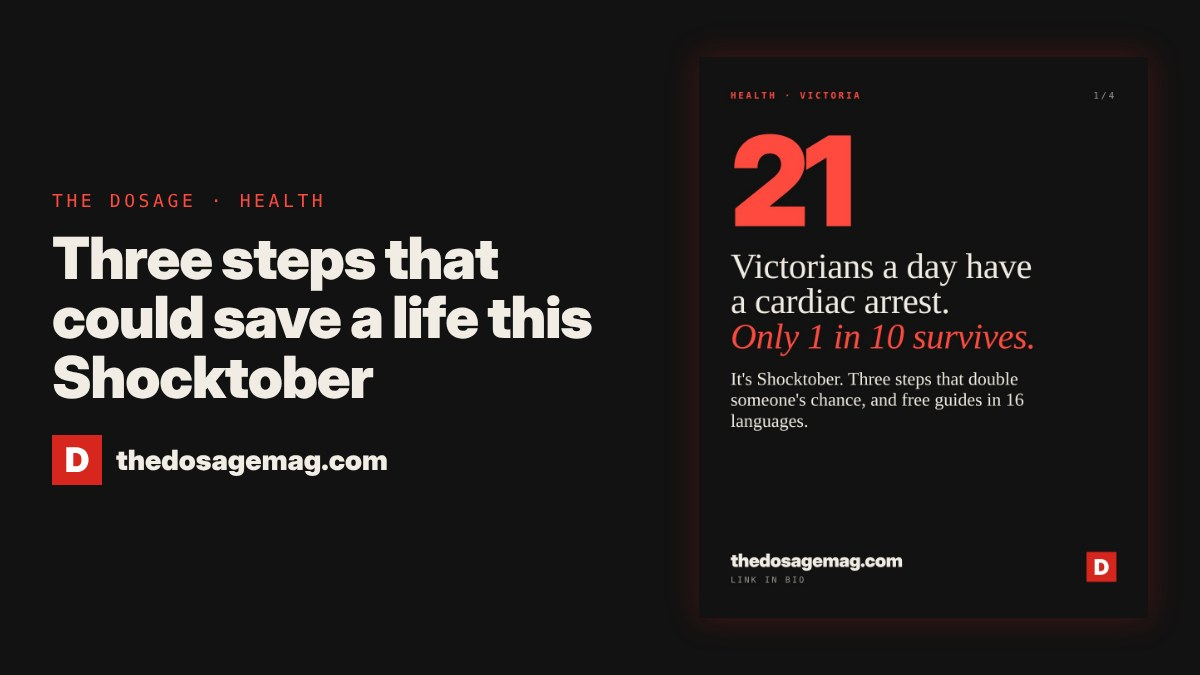
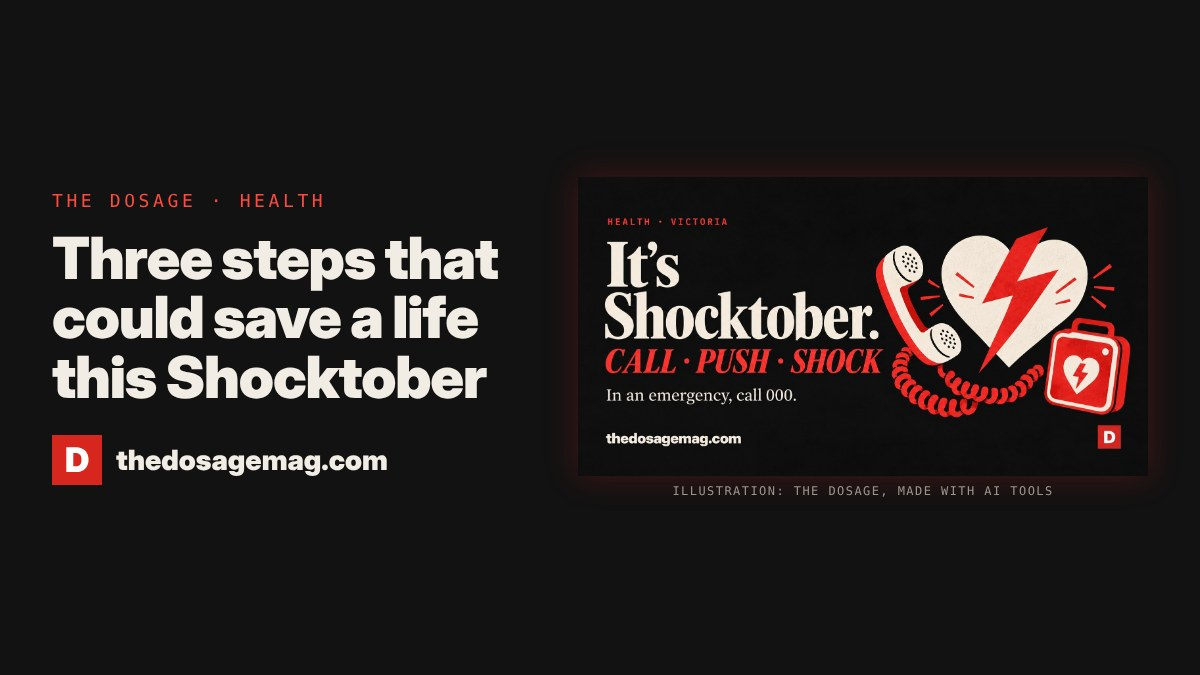
CPR story: Shocktober illustration and Call Push Shock graphic in the article; illustration cover slide for social (requested 21 Oct)
Claude-Session: https://claude.ai/code/session_01XEZDG2ftZS8qLCKJvVWftD

diff --git a/stories/cpr/index.html b/stories/cpr/index.html
@@ -17,14 +17,14 @@
 <meta name="robots" content="max-image-preview:large">
 <meta property="og:image:width" content="1200">
 <meta property="og:image:height" content="675">
-<meta property="og:image:alt" content="Three steps that could save a life this Shocktober">
-<meta name="twitter:image:alt" content="Three steps that could save a life this Shocktober">
+<meta property="og:image:alt" content="It’s Shocktober. Call, Push, Shock: a telephone, a heart with a lightning bolt and a defibrillator case. In an emergency, call 000.">
+<meta name="twitter:image:alt" content="It’s Shocktober. Call, Push, Shock: a telephone, a heart with a lightning bolt and a defibrillator case. In an emergency, call 000.">
 <meta property="article:section" content="Health">
 <meta property="article:tag" content="Health">
 <meta property="article:tag" content="Ambulance Victoria">
 <meta property="article:published_time" content="2026-10-21T07:00:00+11:00">
 <script>window.DOSAGE_PAGE="post-cpr";</script>
-<script type="application/ld+json">{"@context": "https://schema.org", "@type": "NewsArticle", "headline": "Three steps that could save a life this Shocktober", "description": "Around 21 Victorians have a cardiac arrest every day and only one in 10 survives. Ambulance Victoria’s free guides show you what to do, including in Tamil.", "mainEntityOfPage": "https://thedosagemag.com/stories/cpr/", "url": "https://thedosagemag.com/stories/cpr/", "image": ["https://thedosagemag.com/posts/img/share/cpr-16x9.jpg", "https://thedosagemag.com/posts/img/share/cpr-4x3.jpg", "https://thedosagemag.com/posts/img/share/cpr-1x1.jpg"], "author": {"@type": "Organization", "name": "The Dosage", "url": "https://thedosagemag.com/"}, "publisher": {"@type": "NewsMediaOrganization", "name": "The Dosage", "url": "https://thedosagemag.com/", "logo": {"@type": "ImageObject", "url": "https://thedosagemag.com/the-dosage-logo-square.png"}}, "datePublished": "2026-10-21T07:00:00+11:00", "articleSection": "Health", "keywords": ["Health", "Ambulance Victoria"], "inLanguage": "en-AU", "isAccessibleForFree": true}</script>
+<script type="application/ld+json">{"@context": "https://schema.org", "@type": "NewsArticle", "headline": "Three steps that could save a life this Shocktober", "description": "Around 21 Victorians have a cardiac arrest every day and only one in 10 survives. Ambulance Victoria’s free guides show you what to do, including in Tamil.", "mainEntityOfPage": "https://thedosagemag.com/stories/cpr/", "url": "https://thedosagemag.com/stories/cpr/", "image": ["https://thedosagemag.com/posts/img/share/cpr-16x9.jpg", "https://thedosagemag.com/posts/img/share/cpr-4x3.jpg", "https://thedosagemag.com/posts/img/share/cpr-1x1.jpg", "https://thedosagemag.com/posts/img/news/cpr/hero.jpg"], "author": {"@type": "Organization", "name": "The Dosage", "url": "https://thedosagemag.com/"}, "publisher": {"@type": "NewsMediaOrganization", "name": "The Dosage", "url": "https://thedosagemag.com/", "logo": {"@type": "ImageObject", "url": "https://thedosagemag.com/the-dosage-logo-square.png"}}, "datePublished": "2026-10-21T07:00:00+11:00", "articleSection": "Health", "keywords": ["Health", "Ambulance Victoria"], "inLanguage": "en-AU", "isAccessibleForFree": true}</script>
 <!-- Google tag (gtag.js) -->
 <script async src="https://www.googletagmanager.com/gtag/js?id=G-X15JYJ87TY"></script>
 <script>
@@ -576,6 +576,7 @@ footer a{color:inherit}
   <h1>Three steps that could save a life this Shocktober</h1>
   <p class="dek">Around 21 Victorians have a cardiac arrest every day and only one in 10 survives. Ambulance Victoria’s free guides show you what to do, including in Tamil.</p>
   <div class="byline"><span class="label red">Health · Victoria</span><span class="label">The Dosage</span><span class="label">21 October 2026</span></div>
+  <figure class="pic"><img src="posts/img/news/cpr/hero.jpg" alt="It’s Shocktober. Call, Push, Shock: a telephone, a heart with a lightning bolt and a defibrillator case. In an emergency, call 000." width="1733" height="908"><figcaption>Illustration: The Dosage, made with AI tools</figcaption></figure>
   <p>October is Shocktober, Ambulance Victoria’s month-long push to get more people to learn CPR and how to use a defibrillator (AED). The reason is simple: when someone’s heart stops, what bystanders do in the first few minutes decides whether they live.</p>
   <div class="numbers">
     <div><b>21</b><span>Victorians have a cardiac arrest every day</span></div>
@@ -589,6 +590,7 @@ footer a{color:inherit}
     <li><b>Push</b> on the centre of the chest, between the nipples. Push hard, to a steady rhythm.</li>
     <li><b>Shock</b>: if there’s a defibrillator nearby, turn it on and follow its instructions.</li>
   </ol>
+  <figure class="pic" style="max-width:460px;margin-inline:auto"><img src="posts/img/news/cpr/call-push-shock.jpg" alt="If someone collapses and isn’t breathing: 1, call 000, the call taker talks you through CPR. 2, push on the chest, between the nipples, hard and to a steady rhythm. 3, shock with a defibrillator, turn on the AED and follow its voice instructions." width="1080" height="1350" loading="lazy"><figcaption>Graphic: The Dosage</figcaption></figure>
   <p>You can find the nearest registered defibrillator on Ambulance Victoria’s <a href="https://www.ambulance.vic.gov.au/find-aed" target="_blank" rel="noopener">AED map</a>. If you know CPR, the free <a href="https://www.ambulance.vic.gov.au/goodsam" target="_blank" rel="noopener">GoodSAM app</a> can alert you when someone nearby has a cardiac arrest. Ambulance Victoria is running free CPR and AED sessions across the state this month; see its <a href="https://www.ambulance.vic.gov.au/shocktober-2026-community-events" target="_blank" rel="noopener">Shocktober events page</a>.</p>
   <h2>Guides in your language</h2>
   <p>Ambulance Victoria publishes its Call Push Shock guide and videos in 16 languages besides English, including <b>Tamil</b>, Malay and Vietnamese.</p>

diff --git a/index.html b/index.html
@@ -1418,6 +1418,7 @@ footer a{color:inherit}
   <h1>Three steps that could save a life this Shocktober</h1>
   <p class="dek">Around 21 Victorians have a cardiac arrest every day and only one in 10 survives. Ambulance Victoria’s free guides show you what to do, including in Tamil.</p>
   <div class="byline"><span class="label red">Health · Victoria</span><span class="label">The Dosage</span><span class="label">21 October 2026</span></div>
+  <figure class="pic"><img src="posts/img/news/cpr/hero.jpg" alt="It’s Shocktober. Call, Push, Shock: a telephone, a heart with a lightning bolt and a defibrillator case. In an emergency, call 000." width="1733" height="908"><figcaption>Illustration: The Dosage, made with AI tools</figcaption></figure>
   <p>October is Shocktober, Ambulance Victoria’s month-long push to get more people to learn CPR and how to use a defibrillator (AED). The reason is simple: when someone’s heart stops, what bystanders do in the first few minutes decides whether they live.</p>
   <div class="numbers">
     <div><b>21</b><span>Victorians have a cardiac arrest every day</span></div>
@@ -1431,6 +1432,7 @@ footer a{color:inherit}
     <li><b>Push</b> on the centre of the chest, between the nipples. Push hard, to a steady rhythm.</li>
     <li><b>Shock</b>: if there’s a defibrillator nearby, turn it on and follow its instructions.</li>
   </ol>
+  <figure class="pic" style="max-width:460px;margin-inline:auto"><img src="posts/img/news/cpr/call-push-shock.jpg" alt="If someone collapses and isn’t breathing: 1, call 000, the call taker talks you through CPR. 2, push on the chest, between the nipples, hard and to a steady rhythm. 3, shock with a defibrillator, turn on the AED and follow its voice instructions." width="1080" height="1350" loading="lazy"><figcaption>Graphic: The Dosage</figcaption></figure>
   <p>You can find the nearest registered defibrillator on Ambulance Victoria’s <a href="https://www.ambulance.vic.gov.au/find-aed" target="_blank" rel="noopener">AED map</a>. If you know CPR, the free <a href="https://www.ambulance.vic.gov.au/goodsam" target="_blank" rel="noopener">GoodSAM app</a> can alert you when someone nearby has a cardiac arrest. Ambulance Victoria is running free CPR and AED sessions across the state this month; see its <a href="https://www.ambulance.vic.gov.au/shocktober-2026-community-events" target="_blank" rel="noopener">Shocktober events page</a>.</p>
   <h2>Guides in your language</h2>
   <p>Ambulance Victoria publishes its Call Push Shock guide and videos in 16 languages besides English, including <b>Tamil</b>, Malay and Vietnamese.</p>

diff --git a/src/the-dosage.html b/src/the-dosage.html
@@ -1401,6 +1401,7 @@ footer a{color:inherit}
   <h1>Three steps that could save a life this Shocktober</h1>
   <p class="dek">Around 21 Victorians have a cardiac arrest every day and only one in 10 survives. Ambulance Victoria’s free guides show you what to do, including in Tamil.</p>
   <div class="byline"><span class="label red">Health · Victoria</span><span class="label">The Dosage</span><span class="label">21 October 2026</span></div>
+  <figure class="pic"><img src="posts/img/news/cpr/hero.jpg" alt="It’s Shocktober. Call, Push, Shock: a telephone, a heart with a lightning bolt and a defibrillator case. In an emergency, call 000." width="1733" height="908"><figcaption>Illustration: The Dosage, made with AI tools</figcaption></figure>
   <p>October is Shocktober, Ambulance Victoria’s month-long push to get more people to learn CPR and how to use a defibrillator (AED). The reason is simple: when someone’s heart stops, what bystanders do in the first few minutes decides whether they live.</p>
   <div class="numbers">
     <div><b>21</b><span>Victorians have a cardiac arrest every day</span></div>
@@ -1414,6 +1415,7 @@ footer a{color:inherit}
     <li><b>Push</b> on the centre of the chest, between the nipples. Push hard, to a steady rhythm.</li>
     <li><b>Shock</b>: if there’s a defibrillator nearby, turn it on and follow its instructions.</li>
   </ol>
+  <figure class="pic" style="max-width:460px;margin-inline:auto"><img src="posts/img/news/cpr/call-push-shock.jpg" alt="If someone collapses and isn’t breathing: 1, call 000, the call taker talks you through CPR. 2, push on the chest, between the nipples, hard and to a steady rhythm. 3, shock with a defibrillator, turn on the AED and follow its voice instructions." width="1080" height="1350" loading="lazy"><figcaption>Graphic: The Dosage</figcaption></figure>
   <p>You can find the nearest registered defibrillator on Ambulance Victoria’s <a href="https://www.ambulance.vic.gov.au/find-aed" target="_blank" rel="noopener">AED map</a>. If you know CPR, the free <a href="https://www.ambulance.vic.gov.au/goodsam" target="_blank" rel="noopener">GoodSAM app</a> can alert you when someone nearby has a cardiac arrest. Ambulance Victoria is running free CPR and AED sessions across the state this month; see its <a href="https://www.ambulance.vic.gov.au/shocktober-2026-community-events" target="_blank" rel="noopener">Shocktober events page</a>.</p>
   <h2>Guides in your language</h2>
   <p>Ambulance Victoria publishes its Call Push Shock guide and videos in 16 languages besides English, including <b>Tamil</b>, Malay and Vietnamese.</p>

diff --git a/build.py b/build.py
@@ -18,7 +18,7 @@ HEAD='''<!doctype html>
 '''
 IMG={'post-arrivals-oct':'posts/img/news/arrivals-oct/top10.jpg','post-fuel':'posts/img/news/fuel/hero.jpg','post-phi-blocked':'posts/img/news/n1-phi-blocked.jpg','post-slprices':'posts/img/news/n2-sl-prices.jpg',
  'post-rba':'posts/img/news/n3-rba.jpg','post-budget27':'posts/img/news/n4-budget.jpg','post-tourism':'posts/img/news/n5-tourism.jpg',
- 'post-lightning':'posts/img/news/n6-lightning.jpg','post-healthhub':'posts/img/news/n7-health-hub.jpg','post-twoprices':'posts/img/news/n9-two-prices.jpg','post-holidays':'posts/img/news/n10-holidays.jpg','post-transport':'posts/img/news/n12-transport.jpg','post-elina':'posts/img/news/n17-elina.jpg','post-cpr':'posts/img/news/n13-cpr.jpg','post-mfw':'posts/img/news/n16-mfw.jpg','post-rch':'posts/img/news/n15-rch.jpg','post-retina':'posts/img/news/roadster/tesla-roadster-liftoff.jpg','post-asthma':'posts/img/news/n8-thunderstorm-asthma.jpg','post-dengue':'posts/img/news/n11-dengue.jpg','post-phi':'posts/img/2026-10-13-phi.jpg',
+ 'post-lightning':'posts/img/news/n6-lightning.jpg','post-healthhub':'posts/img/news/n7-health-hub.jpg','post-twoprices':'posts/img/news/n9-two-prices.jpg','post-holidays':'posts/img/news/n10-holidays.jpg','post-transport':'posts/img/news/n12-transport.jpg','post-elina':'posts/img/news/n17-elina.jpg','post-cpr':'posts/img/news/cpr/hero.jpg','post-mfw':'posts/img/news/n16-mfw.jpg','post-rch':'posts/img/news/n15-rch.jpg','post-retina':'posts/img/news/roadster/tesla-roadster-liftoff.jpg','post-asthma':'posts/img/news/n8-thunderstorm-asthma.jpg','post-dengue':'posts/img/news/n11-dengue.jpg','post-phi':'posts/img/2026-10-13-phi.jpg',
  'post-lovebar':'posts/img/travels/lovebar-hero.jpg','post-jeana':'posts/img/travels/jeana-bolgoda.jpg'}
 # per-story search overrides: page title, description, extra share images and topics
 SEO={'post-elina':{
